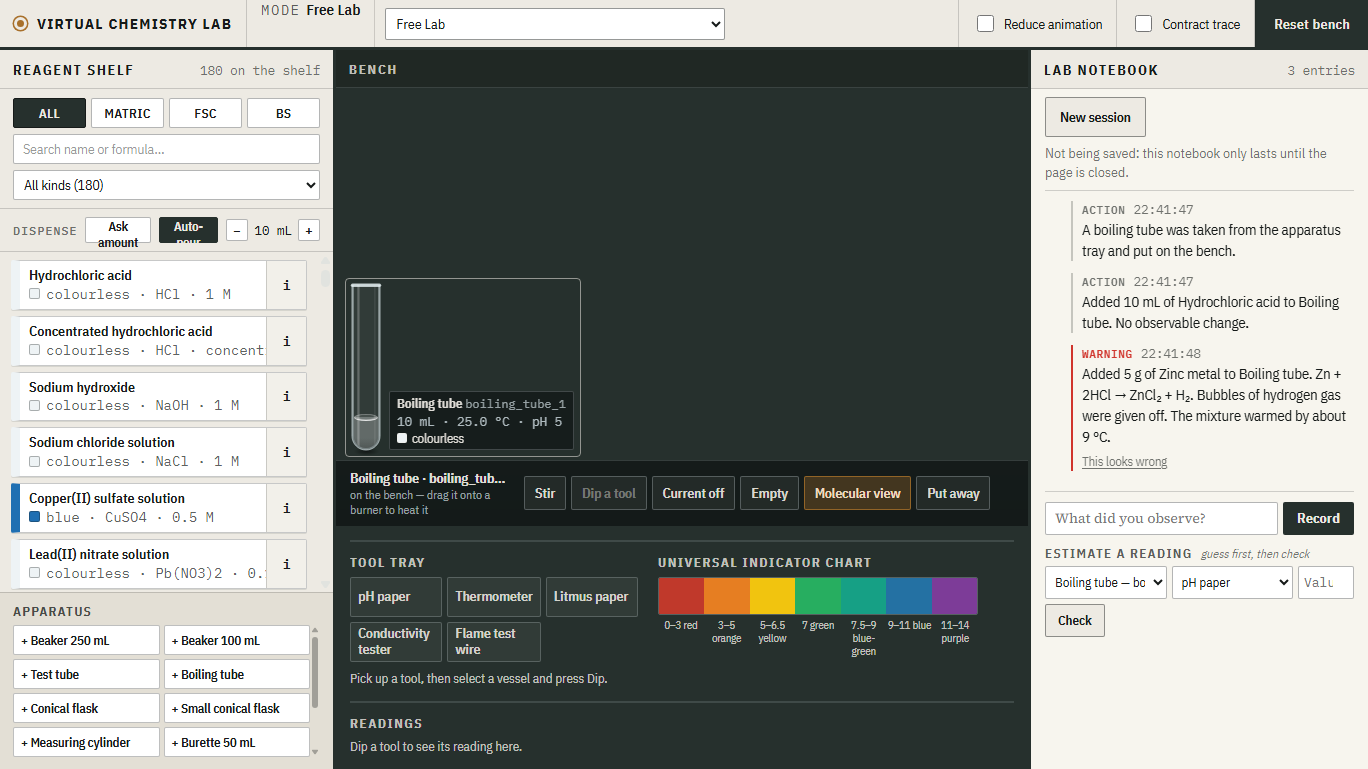
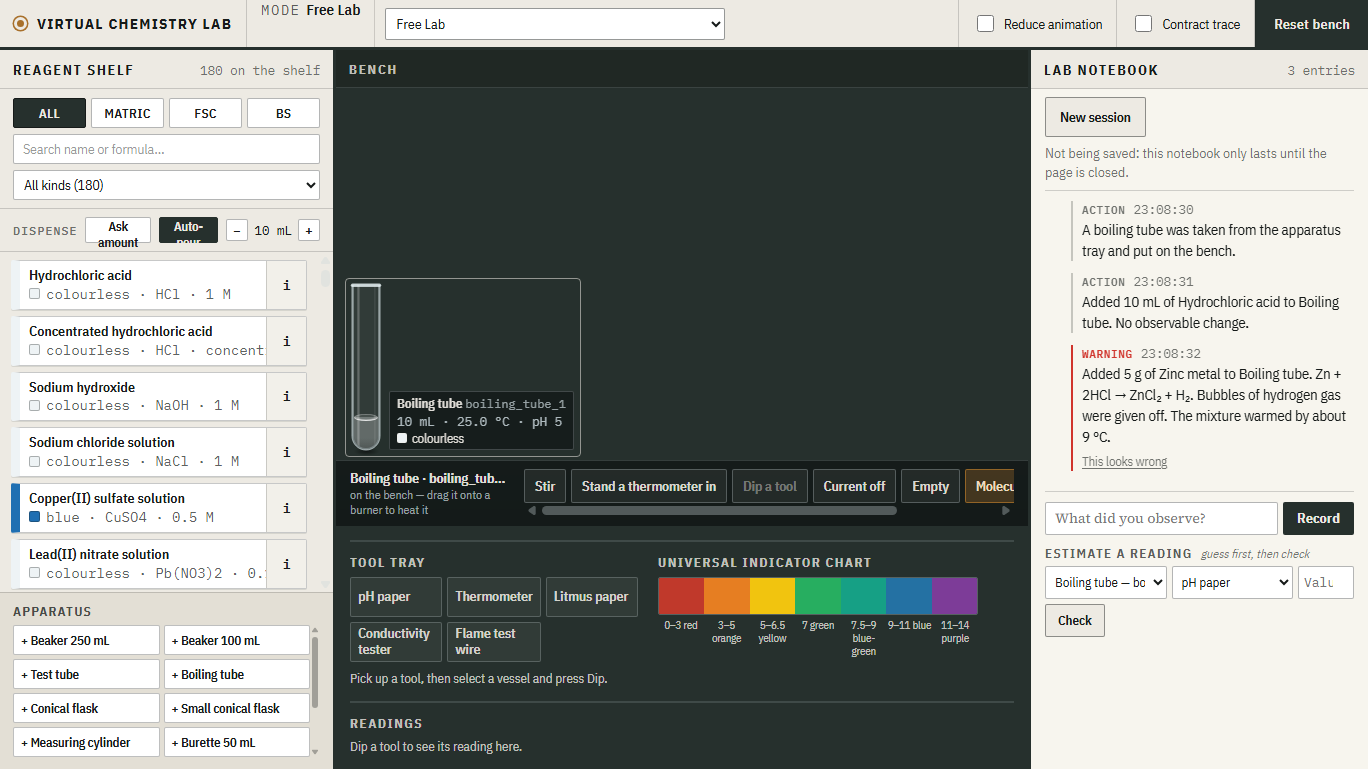
UI.4.3: a thermometer that reads
- 'Stand a thermometer in' / 'Take thermometer out' in a vessel's
  control strip, each logged in the notebook; it only reads.
- New src/ui/thermometer.js: a school thermometer (-10 to 110 °C, red
  alcohol column, printed scale) standing near the vessel's wall with its
  bulb in the liquid. The column rises by transform alone.
- Off its range it stops at the top and the label says the temperature
  is off the thermometer's scale; the exact number stays beside it.
- tests/thermometer.test.js; screenshot docs/ui-progress/UI.4/thermometer.png.

diff --git a/src/ui/bench.js b/src/ui/bench.js
@@ -54,6 +54,8 @@ import { solidSvg, solidBox, shelfSolidLabel } from './solid-shapes.js';
 // A reaction's solid drawn by its curated texture, where its kind puts it
 // (BUILD_UI.md UI.3.4).
 import { settledSvg, settledBox, smokeSvg, hazeOpacity, formingStyle, textureOf } from './precipitate-shapes.js';
+// A thermometer standing in the liquid, read against its scale (UI.4.3).
+import { thermometerSvg, thermometerGeometry, columnFraction, offScale, SCALE_MAX_C, SCALE_MIN_C } from './thermometer.js';
 import { solidLabel } from './appearance.js';
 // The shape of each vessel, its printed scale, and how high a volume of
 // liquid comes inside it (BUILD_UI.md UI.2) - all in glassware.js.
@@ -785,6 +787,7 @@ export function mountBench({ root, getState, dispatch, subscribe }) {
       solidLayer, shelfSolidNote, solidEls: new Map(), haze, smoke, cathodeRod,
       plume, mixing: null, layerBox, emulsion, shaking: false, soot,
       convection, boil, condensation, steam, heatNote,
+      thermometer: null, thermometerColumn: null,
       dipEl: null, dipTool: null,
     };
     vesselEls.set(container.id, refs);
@@ -1035,6 +1038,59 @@ export function mountBench({ root, getState, dispatch, subscribe }) {
     refs.plume.style.height = `${Math.round(geometry.floorY - surface)}px`;
   }
 
+  /**
+   * A thermometer standing in the vessel near its right wall, bulb in the
+   * liquid, stem rising above the rim. The red column rises by transform
+   * (scaleY from the bulb), so a changing temperature never re-lays out.
+   */
+  function updateThermometer(refs, container) {
+    if (!container.thermometerIn) {
+      if (refs.thermometer) {
+        refs.thermometer.remove();
+        refs.thermometer = null;
+        refs.thermometerColumn = null;
+      }
+      return;
+    }
+    const geometry = glassGeometry(container.type, container.capacityMl);
+    if (!geometry) return;
+    if (!refs.thermometer) {
+      const height = geometry.h + 34;
+      const t = thermometerGeometry(height);
+      const el = document.createElement('div');
+      el.className = 'vessel__thermometer';
+      el.innerHTML = thermometerSvg(height);
+      const column = document.createElement('span');
+      column.className = 'thermometer__column';
+      // The column runs from the bulb up to the 110 mark; it is scaled
+      // down from that full height to the temperature.
+      column.style.left = `${t.stemX + t.stemW / 2 - 1.5}px`;
+      column.style.top = `${t.scaleTop}px`;
+      column.style.height = `${t.bulbCy - t.scaleTop}px`;
+      el.appendChild(column);
+      // Bulb near the floor, beside the wall; stem out above the rim.
+      const inner = geometry.innerHalfAt(geometry.floorY - 8);
+      el.style.left = `${Math.round(geometry.cx + Math.max(0, inner - 12))}px`;
+      el.style.top = `${Math.round(geometry.floorY - 4 - (height - 2))}px`;
+      refs.vessel.appendChild(el);
+      refs.thermometer = el;
+      refs.thermometerColumn = column;
+      refs.thermometerGeometry = t;
+    }
+    const t = refs.thermometerGeometry;
+    // Fraction of the column (bulb to the 110 mark) that is filled.
+    const scaleSpan = t.scaleBottom - t.scaleTop;
+    const full = t.bulbCy - t.scaleTop;
+    const filled = (t.bulbCy - t.scaleBottom) + columnFraction(container.temperatureC) * scaleSpan;
+    refs.thermometerColumn.style.transform = `scaleY(${(filled / full).toFixed(3)})`;
+    refs.thermometer.classList.toggle('is-off-scale', offScale(container.temperatureC));
+    refs.thermometer.title = offScale(container.temperatureC)
+      ? (container.temperatureC > SCALE_MAX_C
+        ? `Above ${SCALE_MAX_C} °C - beyond this thermometer. A real glass thermometer would break.`
+        : `Below ${SCALE_MIN_C} °C - beyond this thermometer.`)
+      : `Thermometer: ${container.temperatureC.toFixed(1)} °C`;
+  }
+
   /** The words for what heat is doing, beside the glass. */
   function heatNoteText(heat) {
     const lines = [];
@@ -1094,7 +1150,13 @@ export function mountBench({ root, getState, dispatch, subscribe }) {
     }
     refs.condensation.classList.toggle('is-visible', showDroplets);
 
-    const note = heatNoteText(heat);
+    let note = heatNoteText(heat);
+    if (container.thermometerIn && offScale(container.temperatureC)) {
+      const beyond = container.temperatureC > SCALE_MAX_C
+        ? `above ${SCALE_MAX_C} °C: off the thermometer's scale`
+        : `below ${SCALE_MIN_C} °C: off the thermometer's scale`;
+      note = note ? `${note}; ${beyond}` : beyond;
+    }
     refs.heatNote.hidden = !note;
     refs.heatNote.textContent = note;
   }
@@ -1258,6 +1320,7 @@ export function mountBench({ root, getState, dispatch, subscribe }) {
     updateShelfSolids(refs, container);
     updateLayers(refs, container);
     updateHeat(refs, container);
+    updateThermometer(refs, container);
     refs.soot.classList.toggle('is-visible', container.sooty === true);
     updateDip(refs, container);
     setFlameLevel(refs.flame, container.heatLevel);
@@ -1358,6 +1421,9 @@ export function mountBench({ root, getState, dispatch, subscribe }) {
       }
 
       controlButton('Stir', () => withEffects(vessel.id, () => dispatch.stir(vessel.id), { stirring: true }));
+      controlButton(vessel.thermometerIn ? 'Take thermometer out' : 'Stand a thermometer in', () => {
+        dispatch.setThermometer(vessel.id, !vessel.thermometerIn);
+      }, { active: !!vessel.thermometerIn });
 
       const heldTool = state.selectedToolId
         ? state.tools.find((t) => t.id === state.selectedToolId)

diff --git a/src/ui/thermometer.js b/src/ui/thermometer.js
@@ -1,0 +1,81 @@
+/**
+ * thermometer.js — a thermometer standing in a vessel, its column read
+ * against a printed scale (BUILD_UI.md stage UI.4.3).
+ *
+ * It is the ordinary school thermometer: a glass stem with a red alcohol
+ * column, marked from -10 °C to 110 °C. The number beside the glass is still
+ * the exact reading; this is the instrument a student actually reads in a
+ * real practical, with the same small error you get reading any scale.
+ *
+ * Beyond its range it says so rather than pretending. A dry tube over a
+ * roaring flame reaches several hundred degrees, which would break a real
+ * glass thermometer: the column stops at the top and the vessel's label
+ * says the temperature is above what the thermometer can show.
+ *
+ * Standing a thermometer in a vessel only reads it (CLAUDE.md §7: tools
+ * read state, never change it). No DOM here, so tests/thermometer.test.js
+ * can check the scale.
+ */
+
+export const SCALE_MIN_C = -10;
+export const SCALE_MAX_C = 110;
+
+// The drawing, in px: a stem and a bulb, with the scale printed on the stem.
+const STEM_W = 7;
+const BULB_R = 4.5;
+const TOP_PAD = 6;    // glass above the 110 mark
+const BULB_PAD = 4;   // between the bulb and the -10 mark
+
+/** Where the column's top sits, as a fraction of the scale: 0 at -10, 1 at 110. */
+export function columnFraction(temperatureC) {
+  const t = Math.max(SCALE_MIN_C, Math.min(SCALE_MAX_C, temperatureC));
+  return (t - SCALE_MIN_C) / (SCALE_MAX_C - SCALE_MIN_C);
+}
+
+/** True when the temperature is outside what this thermometer can show. */
+export function offScale(temperatureC) {
+  return temperatureC > SCALE_MAX_C || temperatureC < SCALE_MIN_C;
+}
+
+/**
+ * The thermometer's geometry for a given overall height: where the scale
+ * runs on the stem, so the column can be sized to it.
+ */
+export function thermometerGeometry(heightPx) {
+  const h = Math.max(60, Math.round(heightPx));
+  const w = 26; // stem plus room for the printed figures
+  const bulbCy = h - BULB_R - 1;
+  const scaleBottom = bulbCy - BULB_R - BULB_PAD; // the -10 mark
+  const scaleTop = TOP_PAD;                        // the 110 mark
+  return { w, h, stemX: 4, stemW: STEM_W, bulbCy, bulbR: BULB_R, scaleTop, scaleBottom };
+}
+
+/** The y of a temperature on the printed scale. */
+export function yFor(geometry, temperatureC) {
+  return geometry.scaleBottom - columnFraction(temperatureC) * (geometry.scaleBottom - geometry.scaleTop);
+}
+
+/**
+ * The static glass and printed scale, as SVG. The red column is a separate
+ * element (bench.js) so it can rise by transform alone.
+ */
+export function thermometerSvg(heightPx) {
+  const g = thermometerGeometry(heightPx);
+  const cx = g.stemX + g.stemW / 2;
+  const parts = [];
+  // The glass stem, rounded at the top, and the bulb.
+  parts.push(`<rect x="${g.stemX}" y="0" width="${g.stemW}" height="${g.bulbCy}" rx="${g.stemW / 2}" fill="rgba(235, 240, 242, 0.55)" stroke="rgba(255, 255, 255, 0.8)" stroke-width="0.7"/>`);
+  parts.push(`<circle cx="${cx}" cy="${g.bulbCy}" r="${g.bulbR}" fill="#C8332B" stroke="rgba(255, 255, 255, 0.8)" stroke-width="0.7"/>`);
+  // The scale: a line every 10 °C, longer with a figure every 20 °C.
+  const lines = [];
+  const figures = [];
+  for (let t = SCALE_MIN_C; t <= SCALE_MAX_C; t += 10) {
+    const y = yFor(g, t).toFixed(1);
+    const major = t % 20 === 0;
+    lines.push(`M${g.stemX + g.stemW} ${y}h${major ? 4 : 2.5}`);
+    if (major) figures.push(`<text x="${g.stemX + g.stemW + 5}" y="${(Number(y) + 3).toFixed(1)}">${t}</text>`);
+  }
+  parts.push(`<path d="${lines.join('')}" stroke="rgba(246, 246, 240, 0.9)" stroke-width="0.8"/>`);
+  parts.push(`<g class="thermometer__figures" fill="rgba(246, 246, 240, 0.92)" font-size="8">${figures.join('')}</g>`);
+  return `<svg class="thermometer__glass" width="${g.w}" height="${g.h}" viewBox="0 0 ${g.w} ${g.h}" aria-hidden="true">${parts.join('')}</svg>`;
+}

diff --git a/src/ui/app.js b/src/ui/app.js
@@ -115,6 +115,9 @@ const BASE_CONTAINER_DEFS = [];
 /** Vessels blackened by a luminous flame, until they are put away (UI.4.1). */
 const sootyContainers = new Set();
 
+/** Vessels with a thermometer left standing in them (UI.4.3). */
+const thermometerIn = new Set();
+
 /** "a beaker", "an evaporating dish", "an ice bath" - capitalised to start a sentence. */
 function withArticle(noun, capital = false) {
   const article = /^[aeiou]/i.test(noun) ? 'an' : 'a';
@@ -465,6 +468,27 @@ function setEquipmentLevel(equipmentId, level) {
  * and leaves soot on the glass; opening it gives the hot blue flame used
  * for heating. Interface state only - the burner clock reads it.
  */
+/**
+ * Stands a thermometer in a vessel, or takes it out. It only reads the
+ * temperature (CLAUDE.md §7) - but putting it in and taking it out are
+ * things the student did, so each writes a notebook line.
+ */
+function setThermometer(containerId, standing) {
+  const container = containersById.get(containerId);
+  if (!container) return;
+  if (standing === thermometerIn.has(containerId)) return;
+  if (standing) thermometerIn.add(containerId);
+  else thermometerIn.delete(containerId);
+  notebook.logAction({
+    text: standing
+      ? `A thermometer was stood in the ${container.name.toLowerCase()} to watch its temperature.`
+      : `The thermometer was taken out of the ${container.name.toLowerCase()}.`,
+    containerId,
+    action: 'setThermometer',
+  });
+  notify();
+}
+
 function setAirHole(equipmentId, open) {
   const item = equipment.find((eq) => eq.id === equipmentId);
   if (!item || item.kind !== 'burner') return;
@@ -496,6 +520,7 @@ function removeEquipment(equipmentId) {
 
 /** Puts a vessel back in the tray, with whatever was in it. */
 function removeVessel(containerId) {
+  thermometerIn.delete(containerId);
   sootyContainers.delete(containerId);
   const index = containers.findIndex((c) => c.id === containerId);
   if (index === -1) return;
@@ -1113,6 +1138,7 @@ function getState() {
         // Soot left on the outside of the glass by a luminous flame. It stays
         // until the vessel is put away - soot does not wipe itself off.
         sooty: sootyContainers.has(snapshot.id),
+        thermometerIn: thermometerIn.has(snapshot.id),
         // Which vessel a burette is clamped above, if it is.
         clampedOver: clampedOverByContainer.get(snapshot.id) || null,
         // Which tool is in the liquid right now, mid-gesture, and the last
@@ -1207,6 +1233,7 @@ function currentReadingFor(containerId, toolId) {
  * for a single student action).
  */
 function resetBenchState() {
+  thermometerIn.clear();
   sootyContainers.clear();
   // Rebuilt from scratch rather than emptied in place: a freshly created
   // container is already empty, at room temperature, unheated and
@@ -1487,6 +1514,7 @@ const dispatch = {
   standOn,
   setEquipmentLevel,
   setAirHole,
+  setThermometer,
   removeEquipment,
 
   // The bench canvas: moving things about, picking one to work with, and

diff --git a/tests/thermometer.test.js b/tests/thermometer.test.js
@@ -1,0 +1,36 @@
+/**
+ * thermometer.test.js — the school thermometer's scale (BUILD_UI.md UI.4.3).
+ */
+
+import { test } from 'node:test';
+import assert from 'node:assert/strict';
+import {
+  columnFraction, offScale, thermometerGeometry, thermometerSvg, yFor, SCALE_MIN_C, SCALE_MAX_C,
+} from '../src/ui/thermometer.js';
+
+test('the column runs from -10 °C at the bottom of the scale to 110 °C at the top', () => {
+  assert.equal(columnFraction(SCALE_MIN_C), 0);
+  assert.equal(columnFraction(SCALE_MAX_C), 1);
+  assert.equal(columnFraction(50), 0.5);
+});
+
+test('beyond its range it stops at the end of the scale and says so', () => {
+  assert.equal(columnFraction(500), 1);
+  assert.equal(columnFraction(-40), 0);
+  assert.equal(offScale(500), true);
+  assert.equal(offScale(100), false);
+});
+
+test('a hotter liquid puts the column higher up the drawn scale', () => {
+  const g = thermometerGeometry(150);
+  assert.ok(yFor(g, 100) < yFor(g, 25), 'higher on screen means a smaller y');
+  assert.equal(yFor(g, SCALE_MIN_C), g.scaleBottom);
+  assert.equal(yFor(g, SCALE_MAX_C), g.scaleTop);
+});
+
+test('the glass and scale draw as self-contained SVG with the figures 0 to 100', () => {
+  const svg = thermometerSvg(150);
+  assert.match(svg, /^<svg [^>]*>.*<\/svg>$/s);
+  assert.doesNotMatch(svg, /NaN|undefined|href=|https?:/);
+  for (const figure of ['0', '20', '100']) assert.match(svg, new RegExp(`>${figure}<`));
+});

diff --git a/src/styles/bench.css b/src/styles/bench.css
@@ -1762,6 +1762,30 @@ html.reduce-motion .vessel__steam.is-on span {
   .vessel__boil.is-boiling span, .vessel__steam.is-on span { opacity: 0.7; }
 }
 
+/* A thermometer standing in the vessel (BUILD_UI.md UI.4.3): glass and
+   scale drawn once by thermometer.js; the red column rises by transform. */
+.vessel__thermometer {
+  position: absolute;
+  z-index: 3;
+  line-height: 0;
+  pointer-events: none;
+}
+.vessel__thermometer svg { display: block; overflow: visible; }
+.thermometer__figures {
+  font-family: 'IBM Plex Sans Condensed', 'Arial Narrow', sans-serif;
+  font-weight: 600;
+}
+.thermometer__column {
+  position: absolute;
+  width: 3px;
+  border-radius: 1.5px;
+  background: #C8332B;
+  transform-origin: 50% 100%;
+  transition: transform 450ms ease-out;
+}
+html.reduce-motion .thermometer__column { transition: none; }
+@media (prefers-reduced-motion: reduce) { .thermometer__column { transition: none; } }
+
 /* The cloudy emulsion a shake makes, over the whole liquid. */
 .vessel__emulsion {
   position: absolute;

diff --git a/BUILD_UI.md b/BUILD_UI.md
@@ -472,6 +472,24 @@ a guessed one. No engine change.
 > A thermometer stood in the liquid, its column rising with the vessel's temperature and readable
 > against its scale, beside the existing number.
 
+> **Done (2026-11-19).**
+> - **The control.** A "Stand a thermometer in / Take thermometer out" button sits in a vessel's
+>   control strip. Each writes a notebook line. It only reads, never changes anything (CLAUDE.md
+>   §7).
+> - **The instrument.** It stands near the vessel's right wall with its bulb in the liquid and its
+>   stem above the rim. It's the ordinary school thermometer from `src/ui/thermometer.js`: a
+>   glass stem with a red alcohol column and a printed scale from −10 to 110 °C, a line every
+>   10 °C and a figure every 20 °C.
+> - **The column** rises by transform alone, so a changing temperature never re-lays out the
+>   page.
+> - **Beyond its range,** for example a dry tube over a roaring flame at several hundred degrees,
+>   the column stops at the top. The label then says "above 110 °C: off the thermometer's
+>   scale", and the hover text says a real glass thermometer would break. The exact number stays
+>   in the label beside it.
+> - **Checked in the running app:** the column rose from 49 to 100 °C with the water.
+> - **Tests** in `tests/thermometer.test.js`. Screenshot: `docs/ui-progress/UI.4/thermometer.png`
+>   (water at 80 °C, column on the 80 mark; a dry tube off the scale).
+
 **UI.4.4 — Sonnet — Very hot solids**
 > A dry solid above about 500 °C glows dull red, then orange — a static overlay, faded in. Hot
 > glass looks exactly like cold glass, and the label says so.

diff --git a/CLAUDE.md b/CLAUDE.md
@@ -108,6 +108,7 @@ chemlab/
 │   │   ├── solid-shapes.js   ← shelf solids drawn as what they are: ribbon, granules, chips…
 │   │   ├── precipitate-shapes.js ← a reaction's solid drawn by texture, placed by kind
 │   │   ├── heat-look.js      ← what heat visibly does: convection, bubbles, boil, steam, droplets
+│   │   ├── thermometer.js    ← a thermometer standing in a vessel, read against its scale
 │   │   ├── molecular.js      ← 2D reaction animations
 │   │   ├── molecular3d.js    ← 3D ball-and-stick viewer
 │   │   ├── notebook-storage.js ← the page's side of the save/load/report bridge

diff --git a/UI.md b/UI.md
@@ -30,6 +30,8 @@ The UI may **read** engine state and **dispatch** actions. It may not contain ch
       // liquids that do not mix, lightest first, only from a rule's curated
       // layers (CLAUDE.md §5); null for an ordinary single liquid
       heat: { stage, boilingPointC, steam, condensation } | null,
+      // (and on the container: thermometerIn - a thermometer the student
+      // left standing in it, drawn by src/ui/thermometer.js; UI.4.3)
       // stage: still | warming | nucleating | boiling | evaporating, from
       // the curated boiling points (src/ui/heat-look.js); condensation is the
       // liquid settling as droplets on the cool glass above, or null

diff --git a/docs/ui-progress/UI.4/README.md b/docs/ui-progress/UI.4/README.md
@@ -28,3 +28,13 @@ The burner's control strip carries the note on which flame to heat with.
   currents.
 
 Each label says what heat is doing in words as well.
+
+## UI.4.3 — A thermometer that reads
+
+`thermometer.png` shows two thermometers standing in vessels on burners.
+
+- **The beaker of water, at heat 2:** the red column stands on the 80 mark,
+  matching the 80.0 °C beside it.
+- **The boiling tube of copper sulfate, heated dry:** the tube is far above
+  110 °C, so the column has run to the top of the scale. The label says the
+  temperature is off the thermometer's scale.
